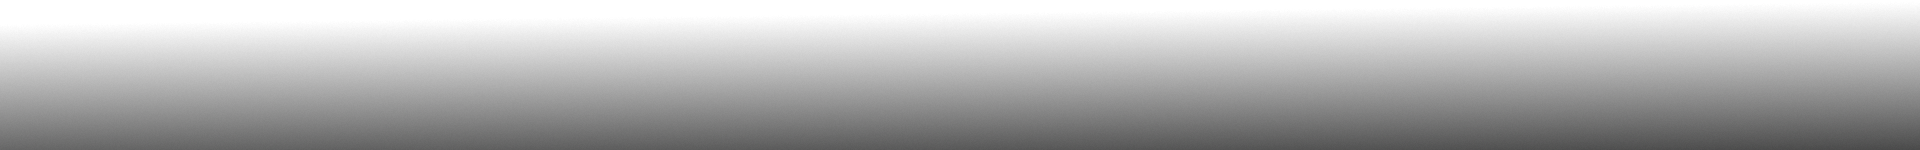
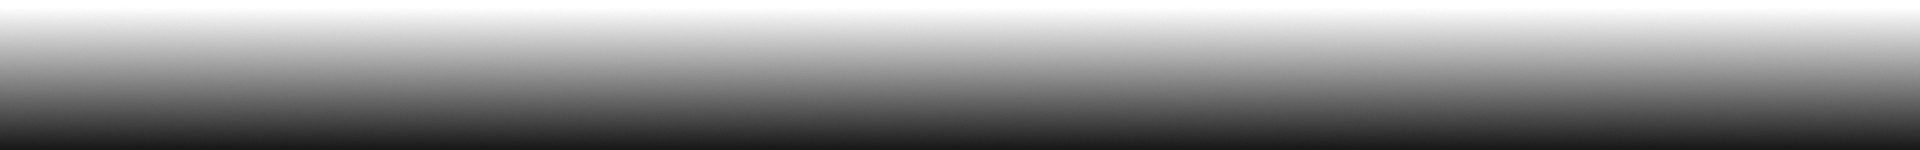
Improve fade effects

diff --git a/src/App.js b/src/App.js
@@ -5,7 +5,6 @@ import Contact from './views/Contact'
 import ReplayButton from './components/ReplayButton'
 import Fade from 'react-reveal/Fade'
 import Jump from 'react-reveal/Jump'
-import Reveal from 'react-reveal/Reveal'
 import { HashRouter as Router, Switch, Route } from 'react-router-dom'
 
 import fadetop from './images/fade-top.png'
@@ -23,6 +22,12 @@ function App() {
       <div className='container'>
         <div className='black-box' />
 
+        <div className='screen' />
+
+        <div className='fade' style={{position: 'absolute', top: 'calc(100vh - 150px)'}}>
+          <img src={fadebot} alt='fade' />
+        </div>
+
         <div className='background'>
           <img src={misty} alt='bg' />
         </div>
@@ -35,8 +40,8 @@ function App() {
           <img src={fadebot} alt='fade' />
         </div>
 
-        <Jump count={4} duration={2000}>
-          <img hidden={false} className='scroll' src={arrows} alt='scroll' style={{width: 36, height: 36}} />
+        <Jump forever duration={2000}>
+          <img className='scroll' src={arrows} alt='scroll' style={{width: 36, height: 36}} />
         </Jump>
         
         <Fade up distance={'40px'} delay={1000}>
@@ -52,6 +57,7 @@ function App() {
           <Route path='/projects' component={Projects} />
           <Route path='/contact' component={Contact} />
         </Switch>
+
         <br/><br/><br/><br/><br/><br/><br/><br/><br/><br/><br/><br/>
         <br/><br/><br/><br/><br/><br/><br/><br/><br/><br/><br/><br/>
         <br/><br/><br/><br/><br/><br/><br/><br/><br/><br/><br/><br/>

diff --git a/src/index.css b/src/index.css
@@ -38,12 +38,21 @@ body {
   animation-fill-mode: forwards;
 }
 
-.background {
+.screen {
+  background-color: rgb(25, 25, 25);
   position: absolute;
+  top: 100vh;
+  width: 100%;
+  height: 350vh;
+  z-index: -1;
+}
+
+.background {
+  position: fixed;
   top: 0;
   background-repeat: no-repeat;
   background-size: contain;
-  z-index: -1;
+  z-index: -2;
 }
 
 .title {
@@ -136,9 +145,9 @@ body {
 }
 
 .scroll {
-  position: absolute;
+  position: fixed;
   left: 40px;
-  bottom: 40px;
-  z-index: -1;
+  bottom: 110px;
+  z-index: -2;
   opacity: 0;
 }
